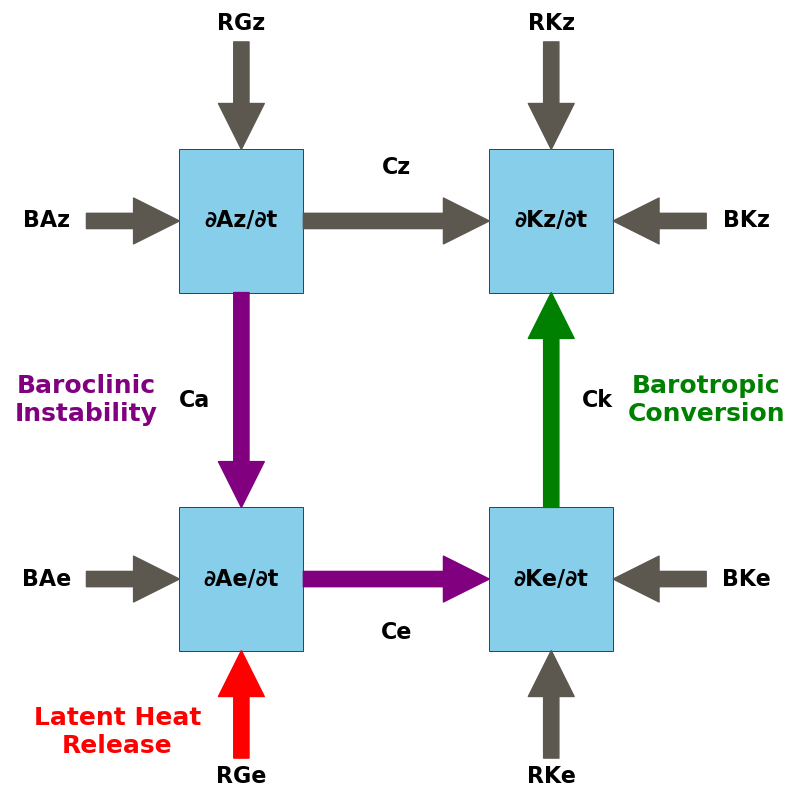
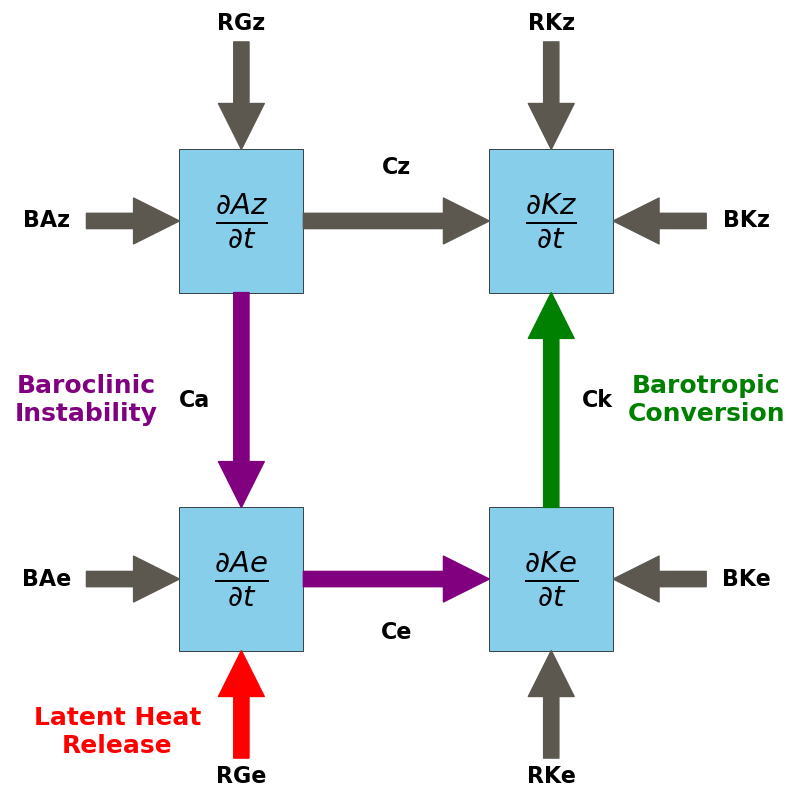
fixed budget terms text

diff --git a/manuscript_lec_climatology/lec_chains.py b/manuscript_lec_climatology/lec_chains.py
@@ -6,7 +6,7 @@
 #    By: daniloceano <danilo.oceano@gmail.com>      +#+  +:+       +#+         #
 #                                                 +#+#+#+#+#+   +#+            #
 #    Created: 2024/01/03 23:31:13 by daniloceano       #+#    #+#              #
-#    Updated: 2025/07/01 09:31:22 by daniloceano      ###   ########.fr        #
+#    Updated: 2025/07/01 09:40:23 by daniloceano      ###   ########.fr        #
 #                                                                              #
 # **************************************************************************** #
 
@@ -94,31 +94,23 @@ def plot_boxes(ax, data, normalized_data, positions, size, plot_example=False):
         )
         ax.add_patch(square)
 
-        # Term text in bold black
-        if plot_example:
-            ax.text(
-                pos[0],
-                pos[1],
-                f"{term}",
-                ha="center",
-                va="center",
-                fontsize=16,
-                color="k",
-                fontweight="bold",
-            )
+        # Convert term to fraction format for time derivatives
+        if "∂" in term and "t" in term:  # Check if the term is a time derivative
+            term_text = f"$\\frac{{∂{term.split('∂')[1].split('/')[0]}}}{{∂t}}$"  # Fractions for time derivatives
+        else:
+            term_text = term  # Regular term
 
         # Value text in the specified color
-        else:
-            ax.text(
-                pos[0],
-                pos[1],
-                f"{term_value:.2f}",
-                ha="center",
-                va="center",
-                fontsize=16,
-                color=value_text_color,
-                fontweight="bold",
-            )
+        ax.text(
+            pos[0],
+            pos[1],
+            term_text,
+            ha="center",
+            va="center",
+            fontsize=30,
+            fontweight="bold",
+            color='k',
+        )
 
 
 def plot_arrow(ax, start, end, term_value, color="#5C5850"):
